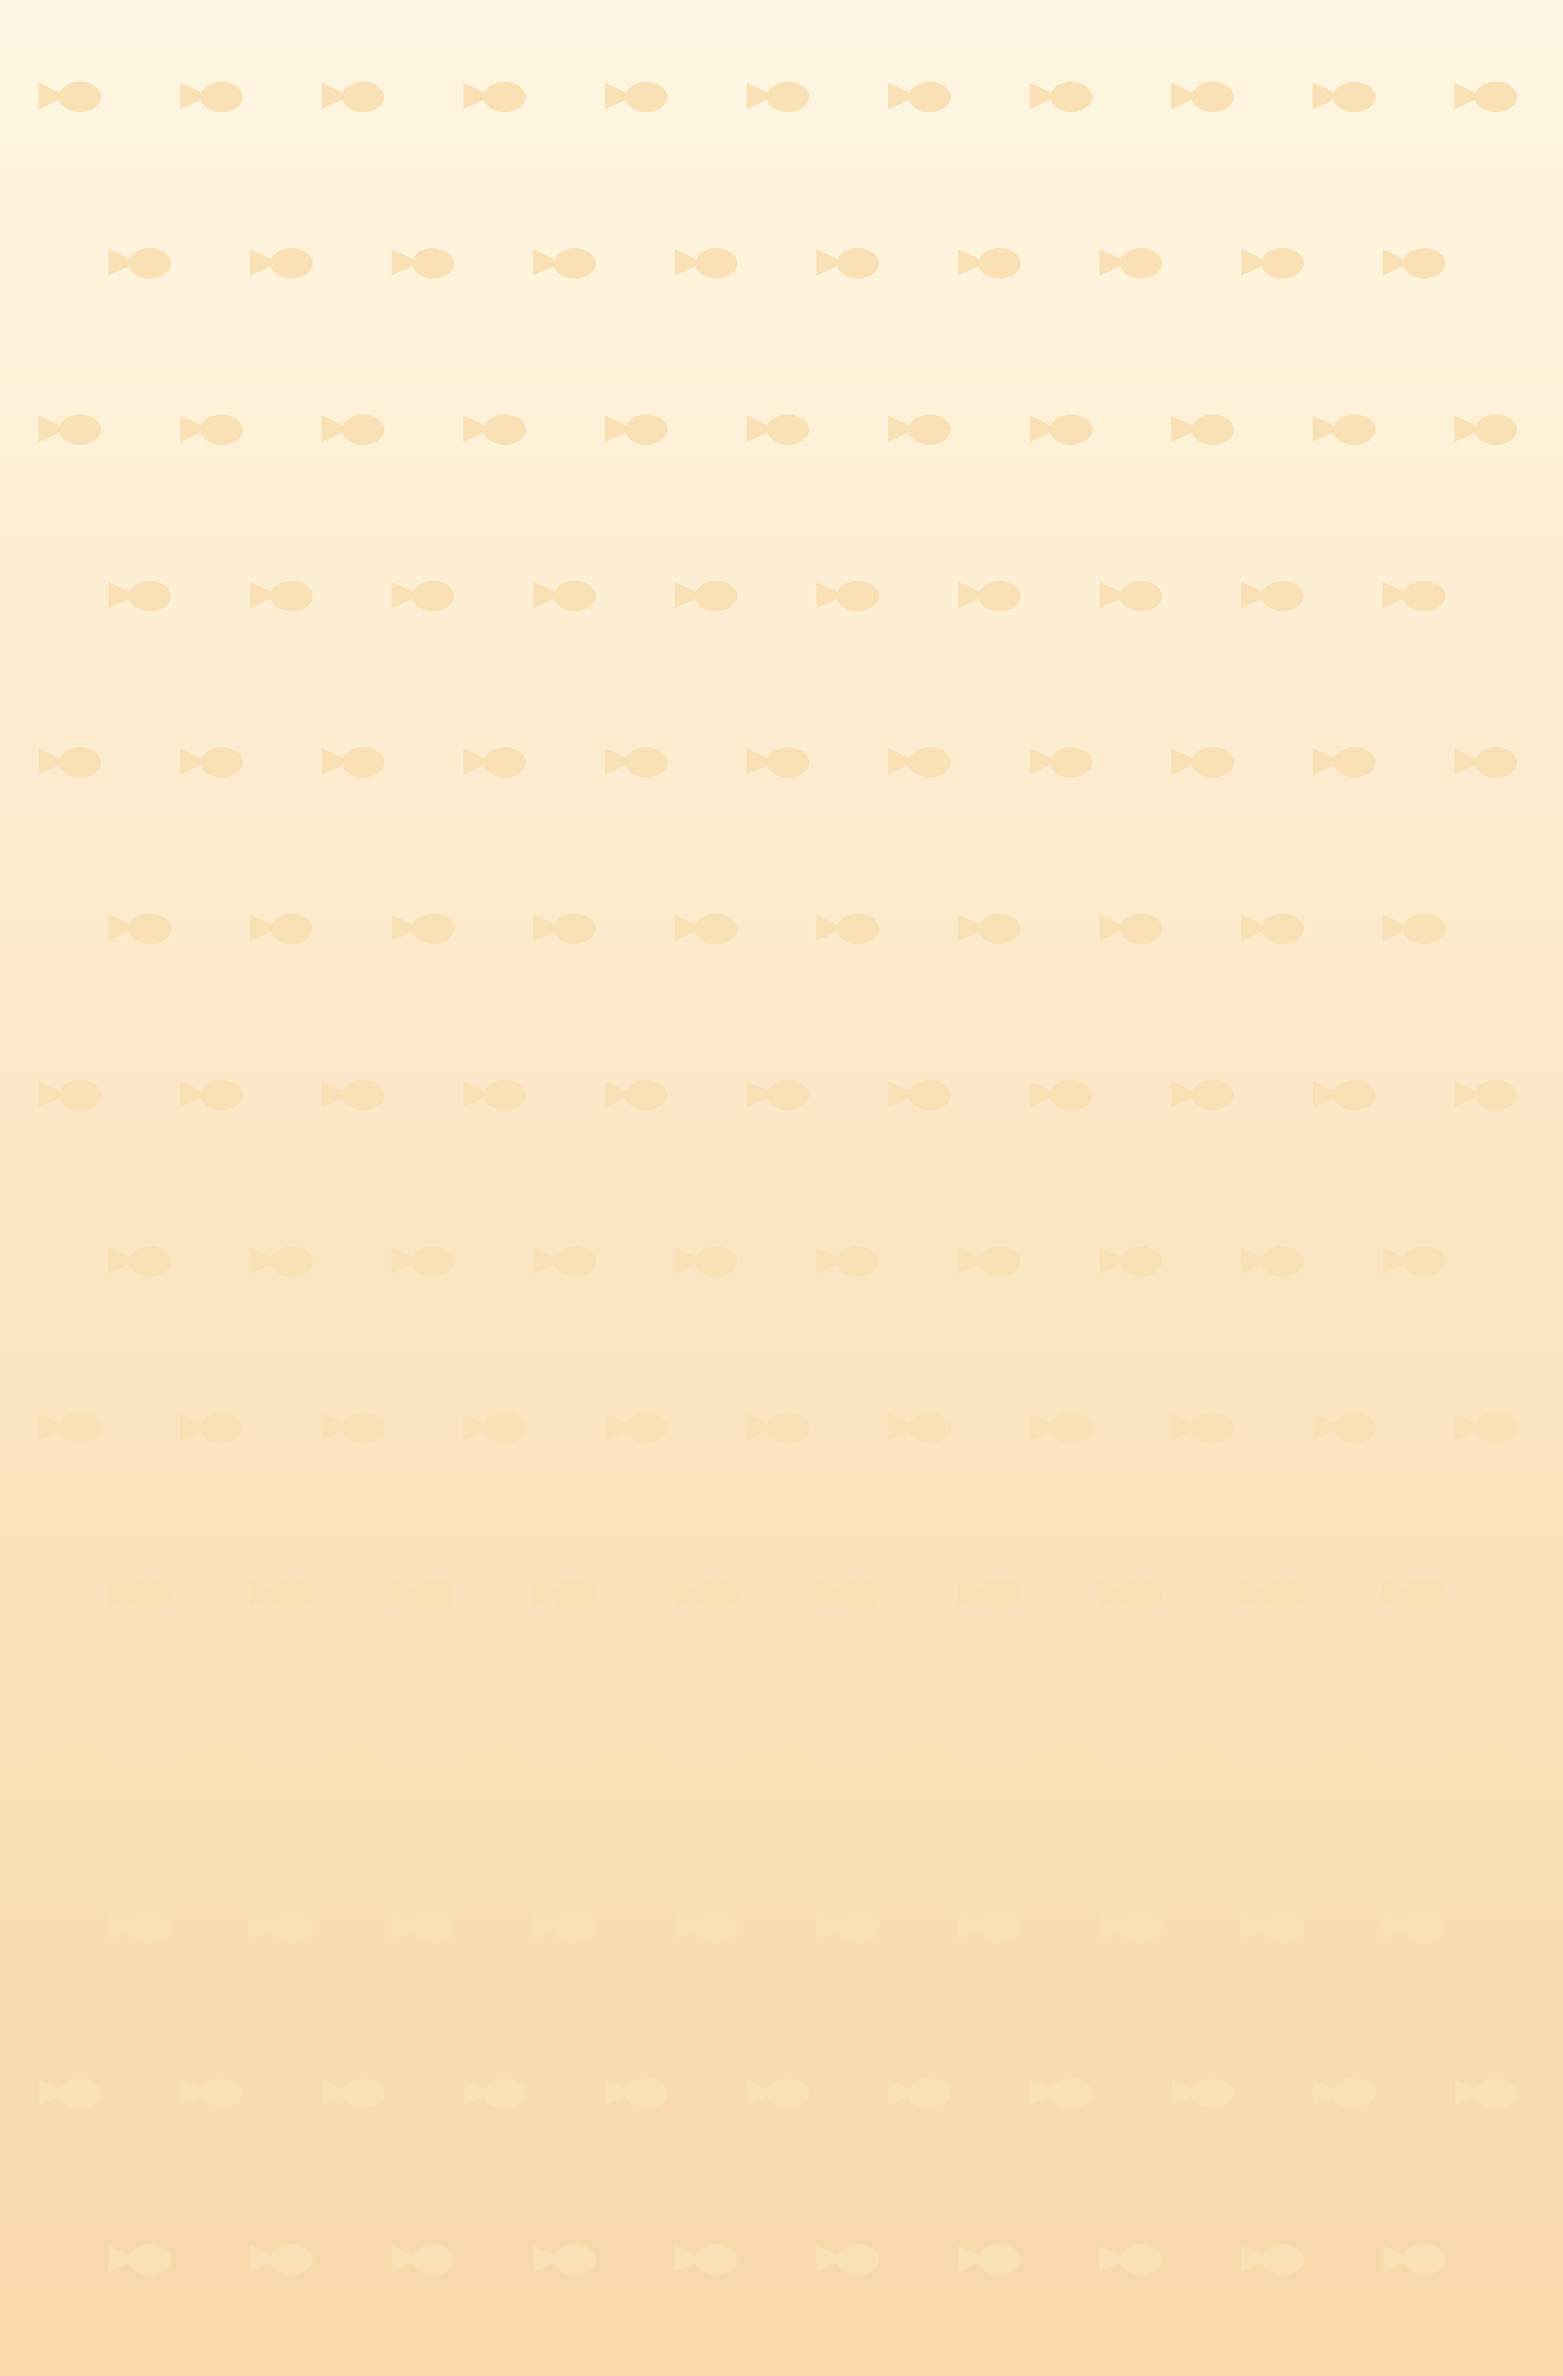
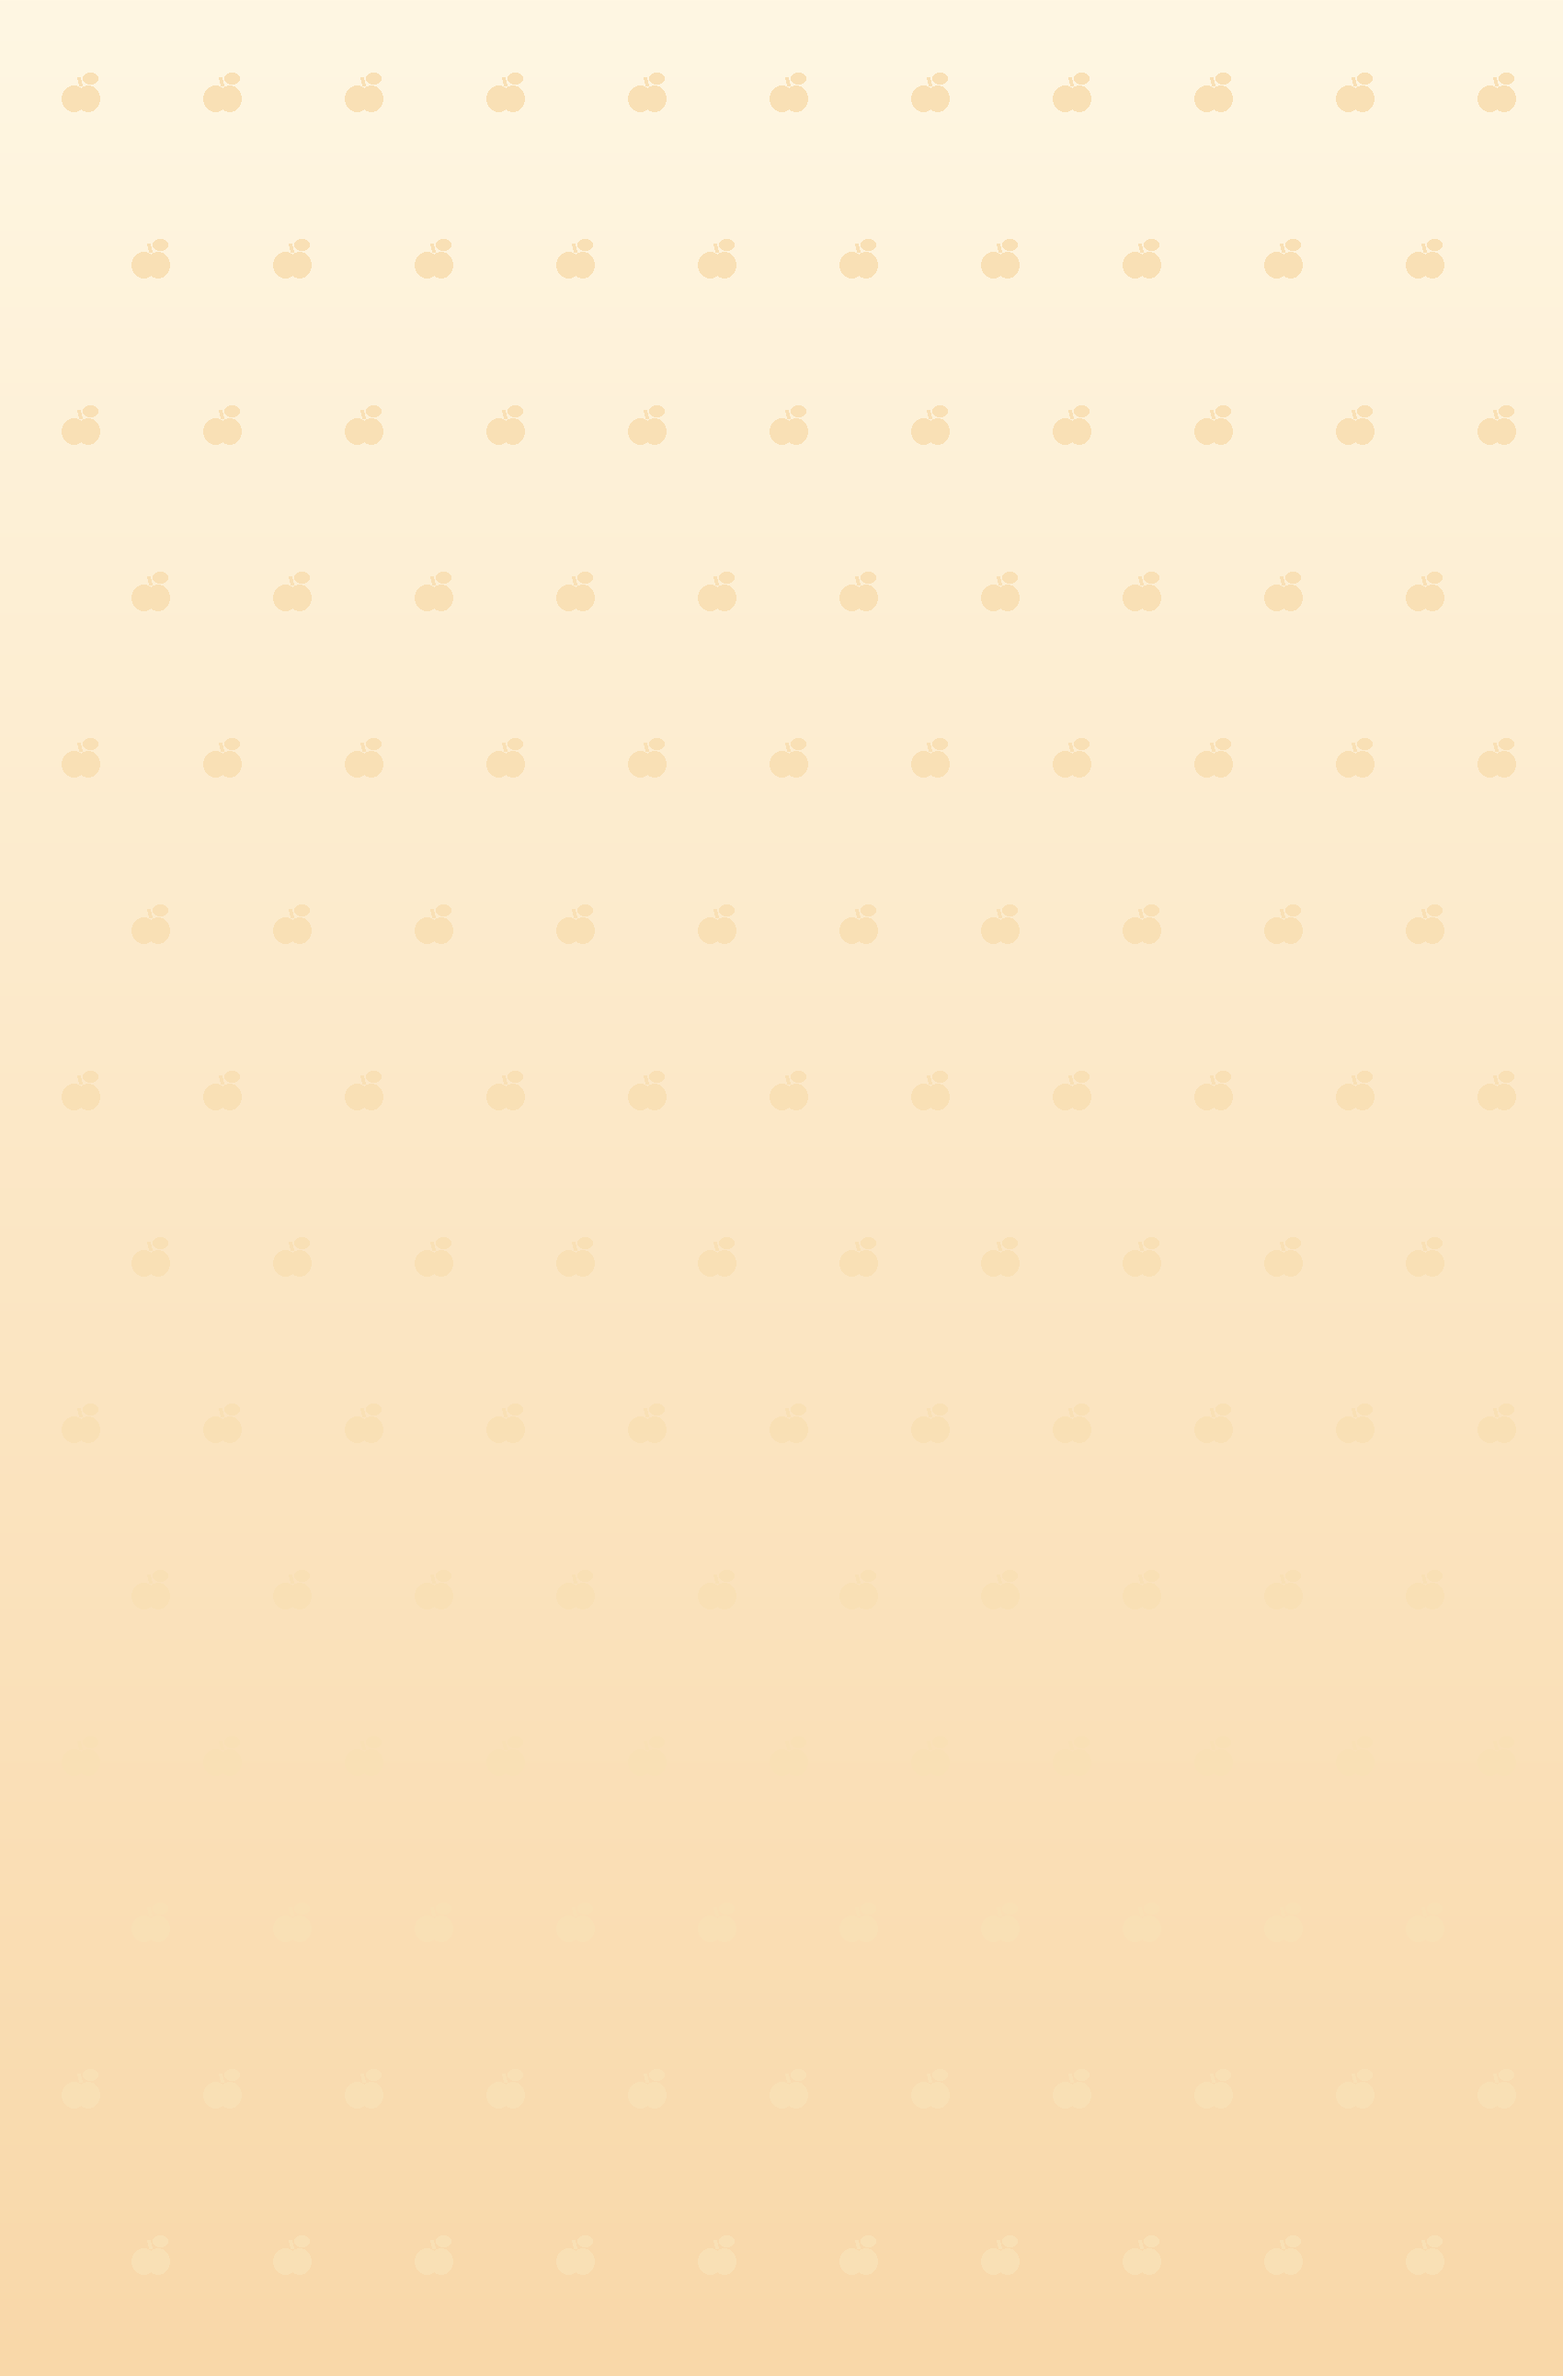
Align Rank with Sweet Rope fruit farmer theme

diff --git a/Codex_Work/Asset_SRSP_v1/rank_profile_review/README.md b/Codex_Work/Asset_SRSP_v1/rank_profile_review/README.md
@@ -1,8 +1,7 @@
-# Rank / Profile · mockup duyệt
+# Fruit Challenge / Profile
 
-Hai PNG 1080 × 2340 dựng tĩnh từ asset Sweet Rope ở `unity/Assets/_IEC/Image/Rank/`. Dữ liệu xếp hạng, tên và điểm là text mẫu. Các nhãn in sẵn giữ tiếng Anh như art Unity bàn giao. Những mockup cũ trong bộ 81 là bản bám bố cục tham chiếu; hai ảnh ở đây dùng đúng bộ Rank/Avatar được vẽ lại trong lượt này.
+Hai mockup 1080 × 2340 dựng tĩnh bằng sprite Sweet Rope, theo theme **mèo nông dân bán trái cây**. Cảnh Rank có sạp trái cây và táo vàng để thu thập. Avatar, cúp mèo nông dân và số liệu mẫu lấy từ bộ Rank hiện có.
 
-- 56 mục Unity redraw gồm 8 avatar, Fish Challenge, ba bục, hàng điểm, panel Profile, CTA, icon và quà. Ván/điểm/CTA bám vai trò, hình và chất liệu được dựng mới.
-- 7 cúp mèo nông dân theo chất liệu bậc và 7 bản khóa tương ứng trong Godot drop-in. Một mặt nạ khóa giữ đúng alpha của cúp tương ứng.
-- Cảnh báo checker: hộp quà mở thuôn nên vùng ngang 60% bản cũ, icon cá giữ dáng ngang nên vùng cao 73%, chữ Fish Challenge dựng bằng Nunito Black trên một dòng nên vùng cao 53%. Giữ canvas, tỷ lệ tự nhiên và xác nhận lại khoảng trống quanh ba lớp trong Unity. Không kéo giãn chỉ để giảm cảnh báo.
-- Checker đã đọc được tài liệu art Unity gốc từ gói handoff đã giải nén. Chưa import trong Unity hoặc Godot runtime.
+Năm ảnh được cập nhật gồm nền Rank, cảnh sạp, popup, tiêu đề và collectible. Hai tên file cũ `BOARD_FISHCHALLENGE.png` và `OBJ_FISH.png` vẫn dùng cho tham chiếu Unity. Ảnh hiển thị và nhãn trong ảnh đều theo theme Fruit Challenge. Chuỗi bản địa hóa, tên sự kiện hoặc điều kiện gameplay ở Unity cần kiểm tra riêng khi có project.
+
+Checker của bản cập nhật ở `../report_rank_fruit_theme.csv`. Tiêu đề in bằng Nunito Black một dòng, có thể chiếm ít chiều cao hơn ảnh cũ; kiểm khoảng trống khi import. Mockup không chạy trong Unity.

diff --git a/Codex_Work/Asset_SRSP_v1/README.md b/Codex_Work/Asset_SRSP_v1/README.md
@@ -63,3 +63,7 @@ python Codex_Work/Asset_SRSP_v1/tools/check_assets.py --manifest Codex_Work/Asse
 - Cập nhật cột `status` trong `asset_manifest.csv` thành `chờ duyệt`.
 - Commit chỉ trong `Codex_Work/Asset_SRSP_v1/`, tiêu đề `Phase 0S: ...`, rồi **dừng**.
 - File nào công cụ của bạn không vẽ đạt thì ghi thẳng `không làm được` kèm lý do, đừng nộp ảnh kém.
+
+## Theme xác nhận
+
+Mèo nông dân bán trái cây. Rank dùng tên hiển thị **Fruit Challenge**, sạp trái cây và táo vàng. Quyết định này thay nội dung cá trong mục Rank của handoff cũ. Tên các file Unity hiện hữu được giữ nguyên để bảo toàn đường dẫn tham chiếu.
